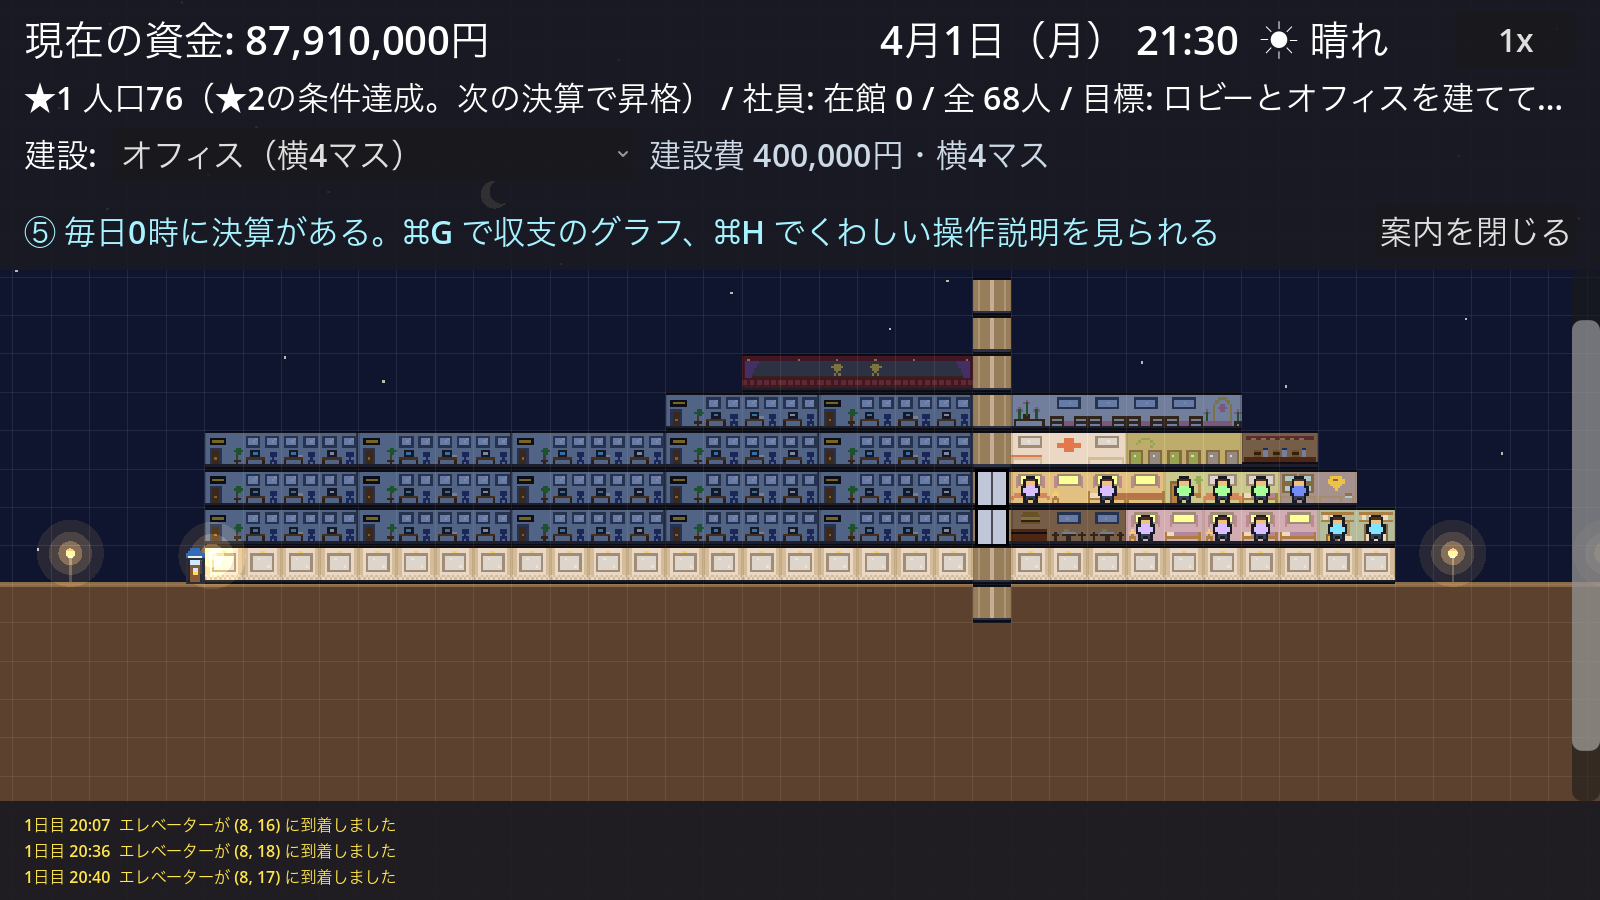
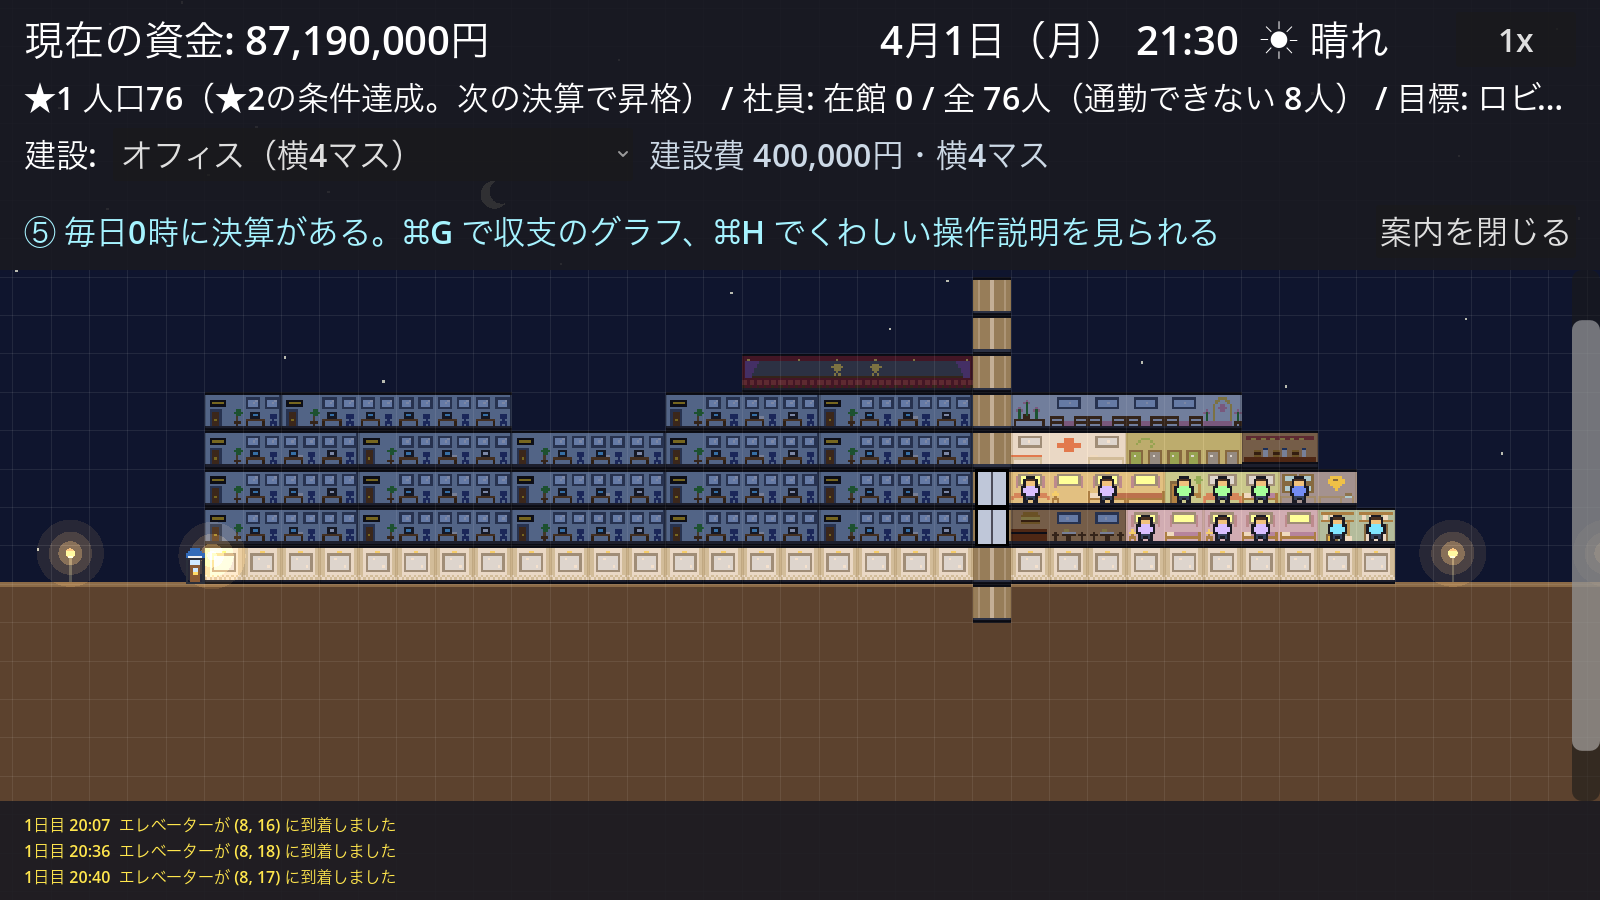
feat: オフィスの種類（小さいオフィス・大きいオフィス）
- 小さいオフィス（横2マス・24万円・2人・賃料11,000円/マス）
- 大きいオフィス（横6マス・48万円・6人・賃料9,000円/マス）
- オフィスの種類を Buildings.OFFICE_TYPES にまとめ、社員・評価・災害・
  チュートリアルの判定をオフィス全種類に対応
- 賃料を種類ごとの表 economy_system.OFFICE_RENTS に変更

Changed region(s): [[0.125, 0.4356, 0.3438, 0.4978], [0.5938, 0.0933, 0.9688, 0.1244], [0.1875, 0.0311, 0.2188, 0.0622]]

diff --git a/README.md b/README.md
@@ -310,7 +310,9 @@ BGMはゆっくりした和音のくり返しで、**昼と夜で和音が変わ
 
 | 絵 | 名前 | 大きさ | 建設費 | 内容 |
 |---|---|---|---|---|
+| ![小さいオフィス](docs/images/buildings/small_office.png) | 小さいオフィス | 横2マス | 24万円 | 社員が2人。賃料は1マス1日**1.1万円**。狭いすき間に入るが、1マスあたりは割高 |
 | ![オフィス](docs/images/buildings/office.png) | オフィス | 横4マス | 40万円 | 社員が4人（1マスに1人）。平日8〜9時に出勤し、17〜18時に退社。昼は飲食店かファストフードへ。賃料は1マス1日1万円（休日も入る。空室の間は入らない） |
+| ![大きいオフィス](docs/images/buildings/large_office.png) | 大きいオフィス | 横6マス | 48万円 | 社員が6人。賃料は1マス1日**0.9万円**。まとめ借りで1マスあたりは割安だが、6人ぶんの人がエレベーターに乗る |
 | ![シングル](docs/images/buildings/hotel.png) | シングル | 横2マス | 15万円 | 17〜21時に客1人が泊まり、翌朝チェックアウトで宿泊料2万円。清掃20分 |
 | ![ツイン](docs/images/buildings/hotel_twin.png) | ツイン | 横3マス | 20万円 | 客2人。宿泊料3.5万円。清掃30分 |
 | ![スイート](docs/images/buildings/hotel_suite.png) | スイート | 横4マス | 50万円 | 客2人。宿泊料8万円。清掃45分 |
@@ -508,7 +510,7 @@ BGMはゆっくりした和音のくり返しで、**昼と夜で和音が変わ
 
 | 収入 | 支出 |
 |---|---|
-| オフィスの賃料（1マス1日1万円。休日も入る） | 維持費（エレベーター・カゴ・設備・店） |
+| オフィスの賃料（1マス1日 小1.1万円・普通1万円・大0.9万円。休日も入る） | 維持費（エレベーター・カゴ・設備・店） |
 | ホテルの宿泊料（チェックアウトした日） | ゴミの外部委託費（ゴミ処理場で処理しきれない分、1につき1,000円） |
 | 飲食店の売上 | |
 | 住宅の販売収入（入居したとき1回だけ） | |

diff --git a/Tasks.md b/Tasks.md
@@ -98,7 +98,7 @@
 ### 新しい要素
 - [x] 屋上庭園（屋上に建てられる憩いの場。ストレスが回復し、騒音もやわらぐ）
 - [x] ファストフード（安くて回転の速い飲食店。昼の混雑をさばく）
-- [ ] オフィスの種類を増やす（小さいオフィス・大きいオフィスで賃料と人数を変える）
+- [x] オフィスの種類を増やす（小さいオフィス・大きいオフィスで賃料と人数を変える）
 - [ ] 駐車場の拡張（地下の何階にも作れるようにして、スロープでつなぐ）
 
 ### コードの整理
